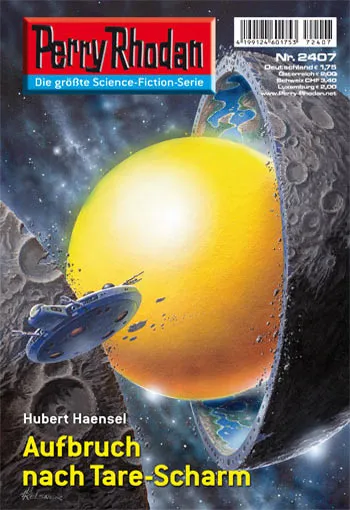
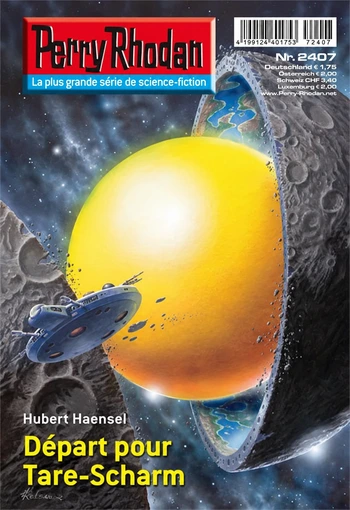
fix: translate covers 2403-2412

diff --git a/src/content/chapitres/de-2407.md b/src/content/chapitres/de-2407.md
@@ -4,11 +4,11 @@ cycleNumber: 35
 chapterNumber: 2407
 type: translation
 originalTitle: "Aufbruch nach Tare-Scharm"
-cover: "/images/covers/de-2407.webp"
+cover: "/images/covers/de-2407.webp?v=20261116-2407-fr"
 auteur: "Hubert Haensel"
 parution: "2007-10-19"
 statut: traduit
-titleFr: "Perry 2407 – Départ pour Tare-Scharm"
+titleFr: "Perry 2407 - Départ pour Tare-Scharm"
 ---
 
 Départ pour Tare-Scharm

diff --git a/src/content/chapitres/de-2408.md b/src/content/chapitres/de-2408.md
@@ -4,11 +4,11 @@ cycleNumber: 35
 chapterNumber: 2408
 type: translation
 originalTitle: "Krieg der Prozessoren"
-cover: "/images/covers/de-2408.webp"
+cover: "/images/covers/de-2408.webp?v=20261116-2408-fr"
 auteur: "Christian Montillon"
 parution: "2007-10-26"
 statut: traduit
-titleFr: "Perry 2408 - Guerre des processeurs"
+titleFr: "Perry 2408 - La guerre des processeurs"
 ---
 
 Guerre des processeurs

diff --git a/src/content/chapitres/de-2404.md b/src/content/chapitres/de-2404.md
@@ -4,11 +4,11 @@ cycleNumber: 35
 chapterNumber: 2404
 type: translation
 originalTitle: "Versteck am Black Hole"
-cover: "/images/covers/de-2404.webp"
+cover: "/images/covers/de-2404.webp?v=20261116-2404-fr"
 auteur: "Arndt Ellmer"
 parution: "2007-09-28"
 statut: traduit
-titleFr: "Perry 2404 - Cachette au Black Hole"
+titleFr: "Perry 2404 - La cachette dans le trou noir"
 ---
 
 Cachette au Black Hole

diff --git a/src/content/chapitres/de-2405.md b/src/content/chapitres/de-2405.md
@@ -4,11 +4,11 @@ cycleNumber: 35
 chapterNumber: 2405
 type: translation
 originalTitle: "Pakt gegen das Chaos"
-cover: "/images/covers/de-2405.webp"
+cover: "/images/covers/de-2405.webp?v=20261116-2405-fr"
 auteur: "Horst Hoffmann"
 parution: "2007-10-05"
 statut: traduit
-titleFr: "Perry 2405 – Pacte contre le Chaos"
+titleFr: "Perry 2405 - Pacte contre le chaos"
 ---
 
 Pacte contre le Chaos

diff --git a/src/content/chapitres/de-2412.md b/src/content/chapitres/de-2412.md
@@ -4,11 +4,11 @@ cycleNumber: 35
 chapterNumber: 2412
 type: translation
 originalTitle: "Das Wasser von Aar"
-cover: "/images/covers/de-2412.webp"
+cover: "/images/covers/de-2412.webp?v=20261116-2412-fr"
 auteur: "Susan Schwartz"
 parution: "2007-11-23"
 statut: traduit
-titleFr: "Perry 2412 - L’Eau d’Aar"
+titleFr: "Perry 2412 - L’eau d’Aar"
 ---
 
 L’eau d’Aar

diff --git a/src/content/chapitres/de-2403.md b/src/content/chapitres/de-2403.md
@@ -4,7 +4,7 @@ cycleNumber: 35
 chapterNumber: 2403
 type: translation
 originalTitle: "Mission CHEOS-TAI"
-cover: "/images/covers/de-2403.webp"
+cover: "/images/covers/de-2403.webp?v=20261116-2403-fr"
 auteur: "Christian Montillon"
 parution: "2007-09-21"
 statut: traduit

diff --git a/src/content/chapitres/de-2406.md b/src/content/chapitres/de-2406.md
@@ -4,7 +4,7 @@ cycleNumber: 35
 chapterNumber: 2406
 type: translation
 originalTitle: "Die Kristall-Annalen"
-cover: "/images/covers/de-2406.webp"
+cover: "/images/covers/de-2406.webp?v=20261116-2406-fr"
 auteur: "Wim Vandemaan"
 parution: "2007-10-12"
 statut: traduit

diff --git a/src/content/chapitres/de-2410.md b/src/content/chapitres/de-2410.md
@@ -4,7 +4,7 @@ cycleNumber: 35
 chapterNumber: 2410
 type: translation
 originalTitle: "Der Kontaktwald"
-cover: "/images/covers/de-2410.webp"
+cover: "/images/covers/de-2410.webp?v=20261116-2410-fr"
 auteur: "Horst Hoffmann"
 parution: "2007-11-09"
 statut: traduit

diff --git a/src/content/chapitres/de-2411.md b/src/content/chapitres/de-2411.md
@@ -4,7 +4,7 @@ cycleNumber: 35
 chapterNumber: 2411
 type: translation
 originalTitle: "Schwinge-von-Raffat"
-cover: "/images/covers/de-2411.webp"
+cover: "/images/covers/de-2411.webp?v=20261116-2411-fr"
 auteur: "Leo Lukas"
 parution: "2007-11-16"
 statut: traduit

diff --git a/src/content/chapitres/de-2409.md b/src/content/chapitres/de-2409.md
@@ -4,7 +4,7 @@ cycleNumber: 35
 chapterNumber: 2409
 type: translation
 originalTitle: "Grenzwall Hangay"
-cover: "/images/covers/de-2409.webp"
+cover: "/images/covers/de-2409.webp?v=20261116-2409-fr"
 auteur: "Leo Lukas"
 parution: "2007-11-02"
 statut: traduit
